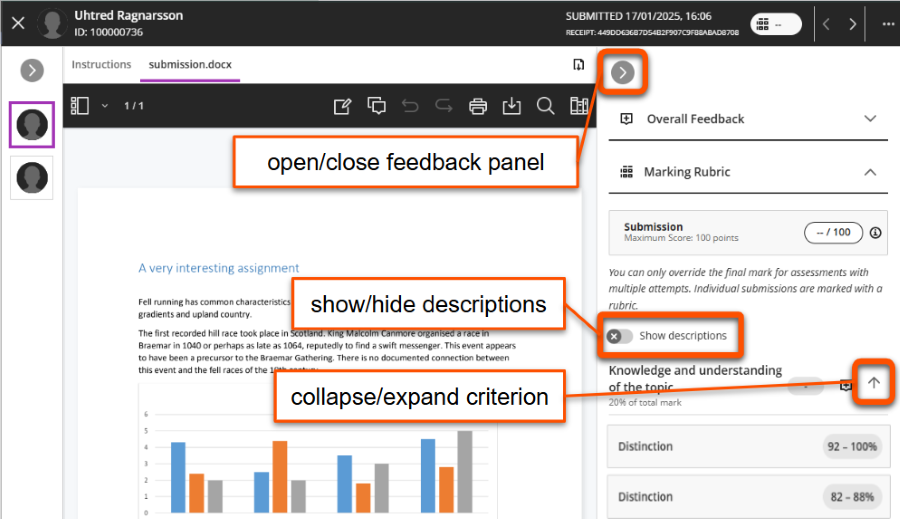
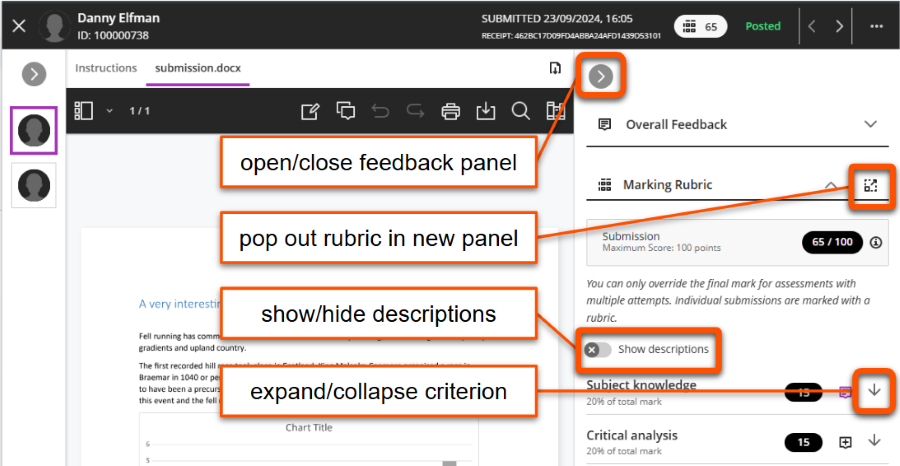
Ultra/Discussion - add pop out rubric info .112

diff --git a/docs/ultra/rubric.md b/docs/ultra/rubric.md
@@ -221,15 +221,14 @@ This section only covers the specific details of marking with a rubric. See our 
 
 1. Open a submission and make sure that the feedback panel on the right is open to show the Marking Rubric.
 2. There are some display options while marking:
-    - Each criterion is expanded by default. Click the criterion title to collapse or expand.
-    - The **Show descriptions toggle** shows or hides the descriptor for each attainment level.
-</br>![Marking interface showing open rubric panel.The Marking Rubric is shown under the Overall Feedback section, with options to show/hide descriptions and the criterion levels.](images/rubric-mark-panel.png)
-3. To enter a mark, select the appropriate attainment level for each criterion.
-    - For rubrics with a percentage or points range, enter the specific *raw criterion mark*.
-    - *Percentage criterion marks* are converted to the weighted mark next to the criterion header.
-    - The final *calculated rubric mark* is shown at the top of the Marking Rubric section.
+    - pop out the rubric to view as a grid in a new panel (not available on small screens)
+    - show or hide the descriptor for each attainment level
+    - expand or collapse a criterion's attainment levels
+</br>![Rubric in marking panel showing icons for display settings described in text](images/rubric-mark-panel.png)
+3. To enter a mark, select the appropriate attainment level for each criterion. For a percentage or points range, enter the specific mark within the range.
+4. As you enter raw marks, these are converted to a weighted criterion mark and added to the calculated rubric mark for the submission.
 </br>![example raw criterion mark = 75, weighted criterion mark = 15, calculated rubric mark = 69.6/100](images/rubric-mark-enter.png)
-4. You can also add written feedback.
+4. You can also add written feedback:
 
     - *Criterion-specific feedback*: click the **speech bubble icon** next to the criterion title. Note: It is not possible to open this feedback box if you have overridden the rubric mark.
     </br>![Criterion feedback text entry box](images/rubric-feedback-criterion.png)
@@ -246,7 +245,7 @@ Once marks are posted, students can see all the rubric information within the su
 
 ### Using a Rubric with a Mark Schema 
 
-A mark schema converts a raw numeric score within a range to a single mapped mark. You could use this with a rubric to apply stepped marking, or to convert a numerical score to a qualitative label (eg. Excellent, Good etc.). 
+A mark schema converts a raw numeric score within a range to a single mapped mark. You could use this with a rubric to automatically apply stepped marking, or to convert a numerical score to a qualitative label (eg. Excellent, Good etc.). 
 
 The marking schema is automatically applied to the original rubric mark or a manually overridden mark. Note that **students can always see the original rubric score** if they open the submission. 
 
